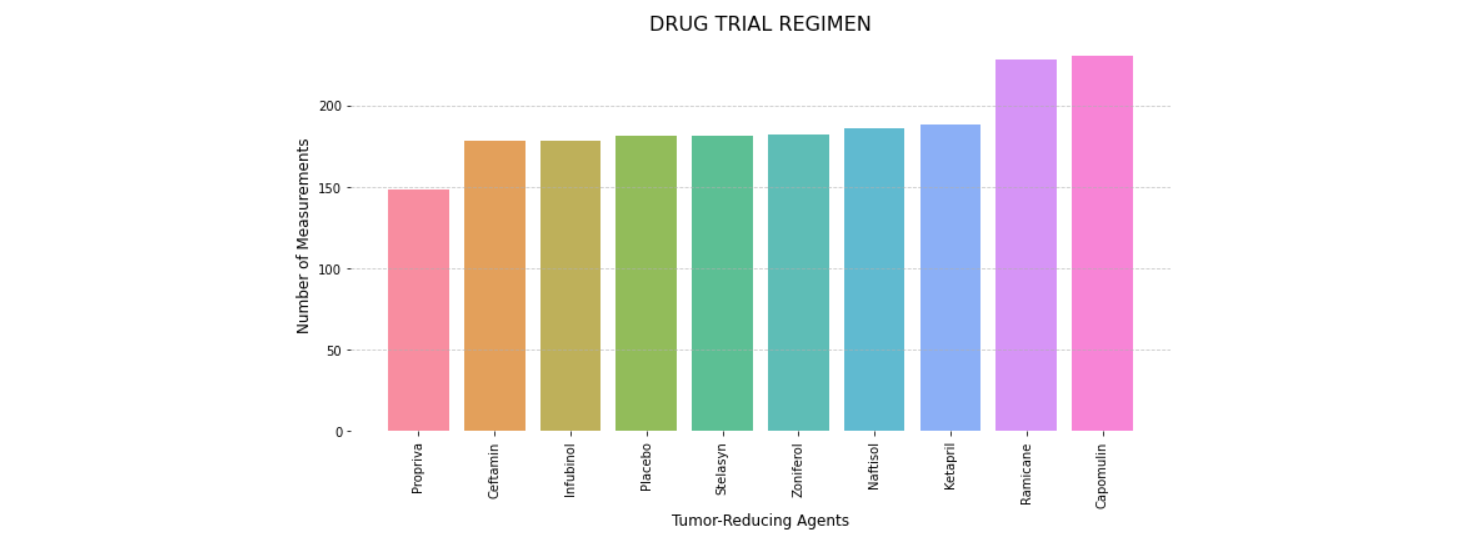
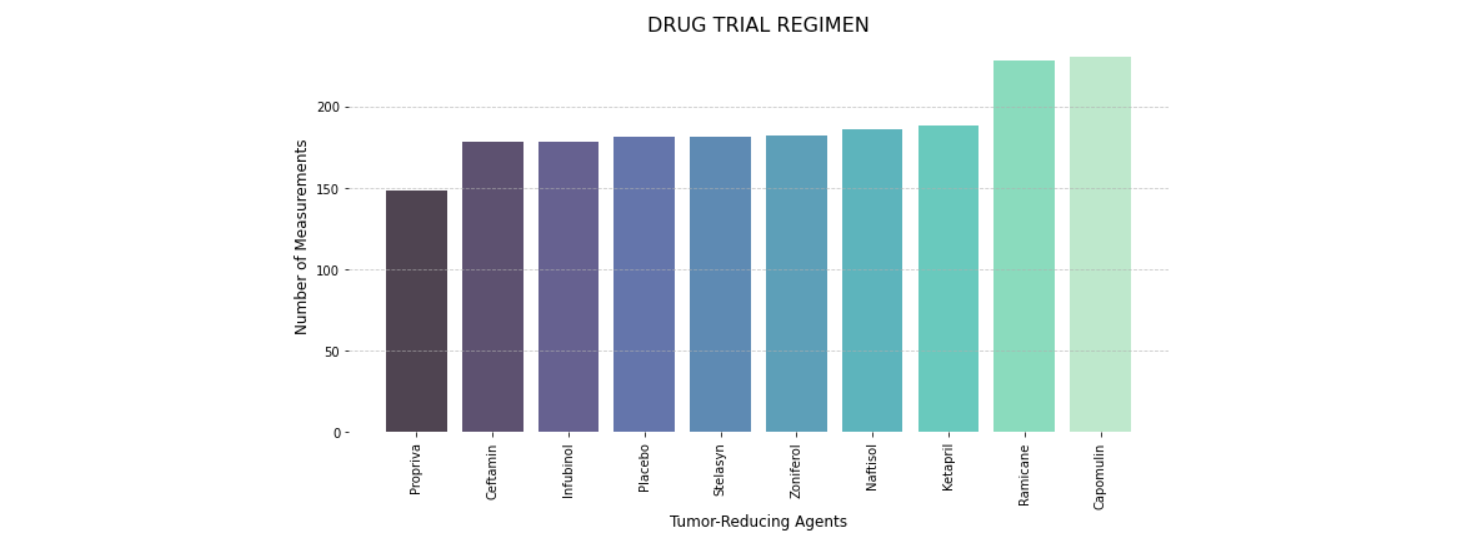
Minor changes

diff --git a/README.md b/README.md
@@ -44,8 +44,6 @@ only good practice but a crucial step in data preprocessing.
 ![alt text](images/PandasPieChart2.png)
 * Pyplot Bar Chart
 
-  * **NOTE:** These plots should look identical.
-
 * Calculate the final tumor volume of each mouse across four of the most promising treatment regimens: Capomulin, Ramicane, Infubinol, and Ceftamin. Calculate the quartiles and IQR and quantitatively determine if there are any potential outliers across all four treatment regimens.
 
 * Using Matplotlib, generate a box and whisker plot of the final tumor volume for all four treatment regimens and highlight any potential outliers in the plot by changing their color and style.
